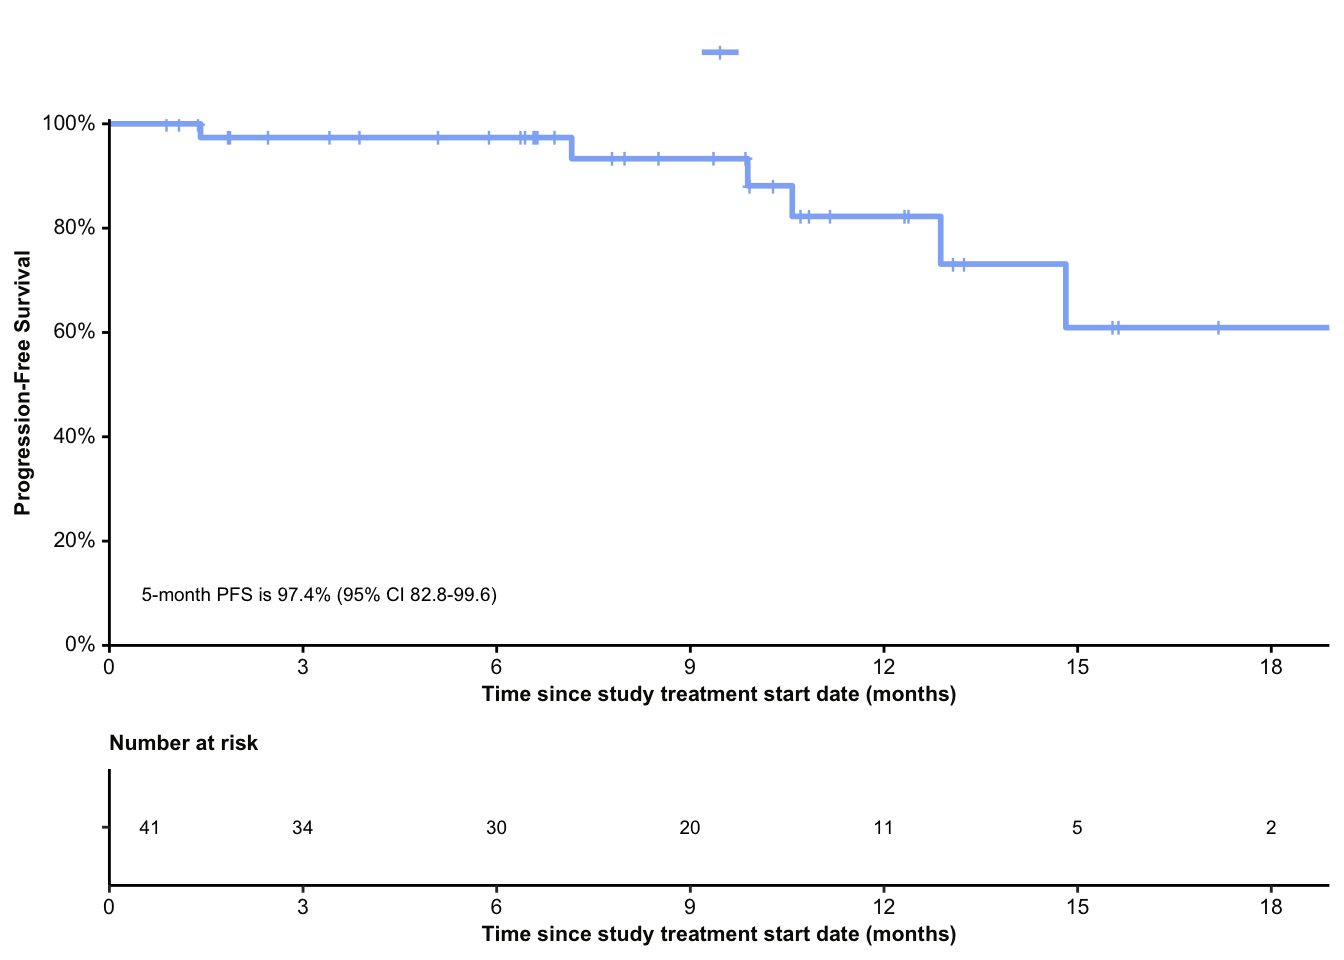
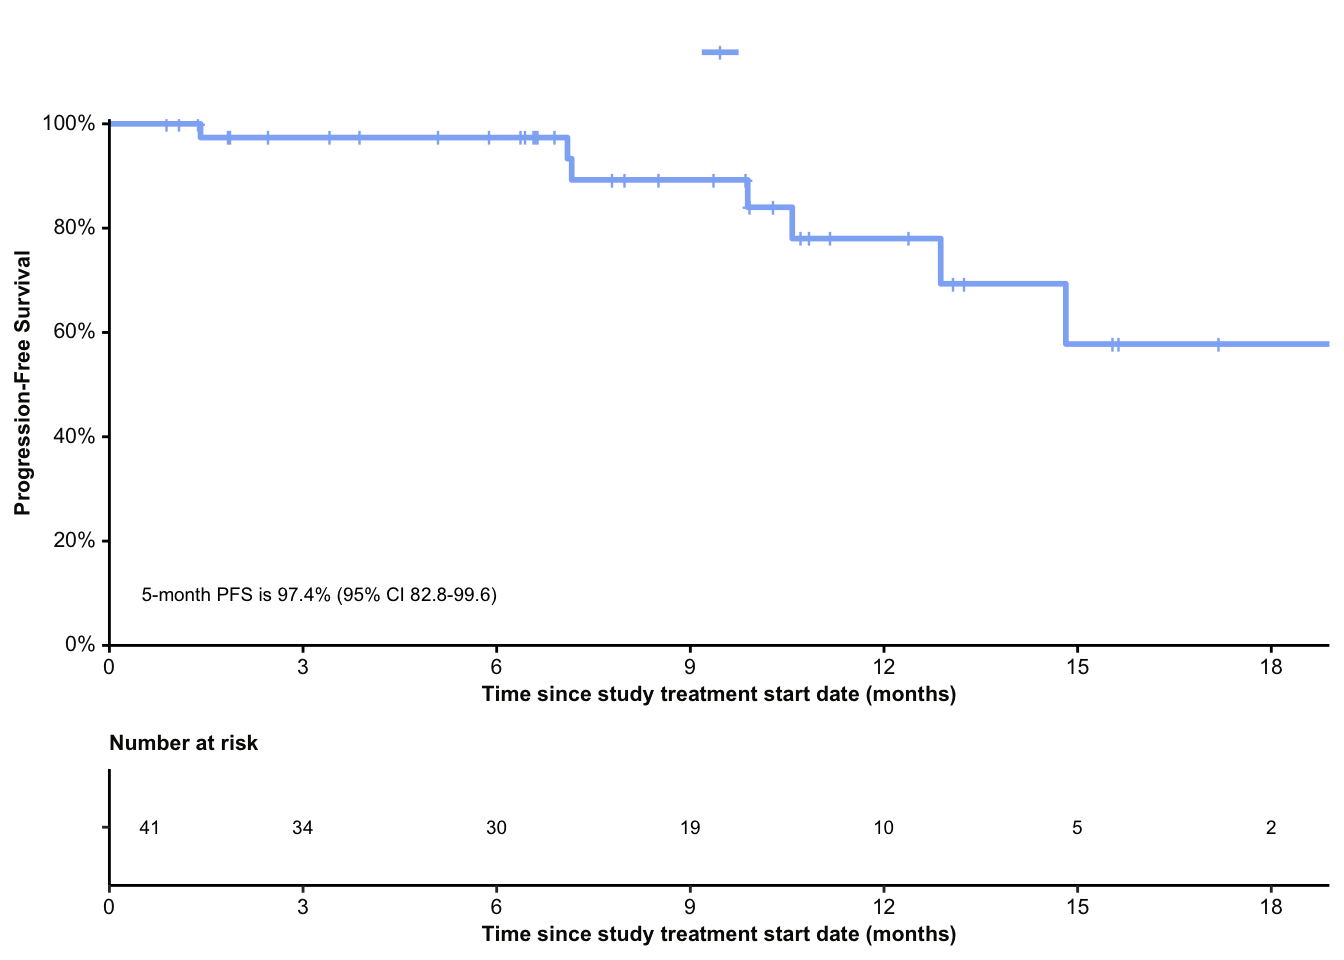
Build site.

Changed region(s): [[0.4062, 0.125, 1.0, 0.375], [0.5, 0.8438, 0.5312, 0.875]]

diff --git a/docs/WP1_preliminary-analysis.html b/docs/WP1_preliminary-analysis.html
@@ -519,15 +519,15 @@ project makes it easier to run your code on other machines.</p>
 <div class="panel panel-default">
 <div class="panel-heading">
 <p class="panel-title">
-<a data-toggle="collapse" data-parent="#workflowr-checks" href="#strongRepositoryversionstrongahrefhttpsgithubcomMedsirScientificPECATItreef8ecc2fd6d47abdee96e6abe5a0d27507f2906d2targetblankf8ecc2fa">
+<a data-toggle="collapse" data-parent="#workflowr-checks" href="#strongRepositoryversionstrongahrefhttpsgithubcomMedsirScientificPECATItreeb1f5f8b6d9f570f1962d10f6ab46ebd6e3d13b93targetblankb1f5f8ba">
 <span class="glyphicon glyphicon-ok text-success"
 aria-hidden="true"></span> <strong>Repository version:</strong>
-<a href="https://github.com/MedsirScientific/PECATI/tree/f8ecc2fd6d47abdee96e6abe5a0d27507f2906d2" target="_blank">f8ecc2f</a>
+<a href="https://github.com/MedsirScientific/PECATI/tree/b1f5f8b6d9f570f1962d10f6ab46ebd6e3d13b93" target="_blank">b1f5f8b</a>
 </a>
 </p>
 </div>
 <div
[2 lines of base64/hex data omitted]
 class="panel-collapse collapse">
 <div class="panel-body">
 <p>
@@ -537,7 +537,7 @@ reproducibility.
 </p>
 <p>
 The results in this page were generated with repository version
-<a href="https://github.com/MedsirScientific/PECATI/tree/f8ecc2fd6d47abdee96e6abe5a0d27507f2906d2" target="_blank">f8ecc2f</a>.
+<a href="https://github.com/MedsirScientific/PECATI/tree/b1f5f8b6d9f570f1962d10f6ab46ebd6e3d13b93" target="_blank">b1f5f8b</a>.
 See the <em>Past versions</em> tab to see a history of the changes made
 to the R Markdown and HTML files.
 </p>
@@ -651,6 +651,40 @@ Message
 </tr>
 </thead>
 <tbody>
+<tr>
+<td>
+Rmd
+</td>
+<td>
+<a href="https://github.com/MedsirScientific/PECATI/blob/b1f5f8b6d9f570f1962d10f6ab46ebd6e3d13b93/analysis/WP1_preliminary-analysis.Rmd" target="_blank">b1f5f8b</a>
+</td>
+<td>
+Daniel Alcalá
+</td>
+<td>
+2024-02-01
+</td>
+<td>
+Add clinical progression as PFS events
+</td>
+</tr>
+<tr>
+<td>
+html
+</td>
+<td>
+<a href="https://rawcdn.githack.com/MedsirScientific/PECATI/d676d2c22bc9568d75853d5f8091d75f1601afbb/docs/WP1_preliminary-analysis.html" target="_blank">d676d2c</a>
+</td>
+<td>
+Daniel Alcalá
+</td>
+<td>
+2024-02-01
+</td>
+<td>
+Build site.
+</td>
+</tr>
 <tr>
 <td>
 Rmd
@@ -2646,7 +2680,7 @@ class="section level2">
 <h4><strong>Table 3. Summary of PFS events:</strong></h4>
 <div data-pagedtable="false">
 <script data-pagedtable-source type="application/json">
-{"columns":[{"label":["time"],"name":[1],"type":["dbl"],"align":["right"]},{"label":["n.risk"],"name":[2],"type":["dbl"],"align":["right"]},{"label":["n.event"],"name":[3],"type":["dbl"],"align":["right"]},{"label":["n.censor"],"name":[4],"type":["dbl"],"align":["right"]},{"label":["estimate"],"name":[5],"type":["dbl"],"align":["right"]},{"label":["std.error"],"name":[6],"type":["dbl"],"align":["right"]},{"label":["conf.high"],"name":[7],"type":["dbl"],"align":["right"]},{"label":["conf.low"],"name":[8],"type":["dbl"],"align":["right"]}],"data":[{"1":"0.89","2":"41","3":"0","4":"1","5":"1.00","6":"0.00","7":"NA","8":"NA"},{"1":"1.08","2":"40","3":"0","4":"1","5":"1.00","6":"0.00","7":"NA","8":"NA"},{"1":"1.38","2":"39","3":"0","4":"1","5":"1.00","6":"0.00","7":"NA","8":"NA"},{"1":"1.41","2":"38","3":"1","4":"0","5":"0.97","6":"0.03","7":"1.00","8":"0.83"},{"1":"1.84","2":"37","3":"0","4":"1","5":"0.97","6":"0.03","7":"1.00","8":"0.83"},{"1":"1.87","2":"36","3":"0","4":"1","5":"0.97","6":"0.03","7":"1.00","8":"0.83"},{"1":"2.46","2":"35","3":"0","4":"1","5":"0.97","6":"0.03","7":"1.00","8":"0.83"},{"1":"3.42","2":"34","3":"0","4":"1","5":"0.97","6":"0.03","7":"1.00","8":"0.83"},{"1":"3.88","2":"33","3":"0","4":"1","5":"0.97","6":"0.03","7":"1.00","8":"0.83"},{"1":"5.09","2":"32","3":"0","4":"1","5":"0.97","6":"0.03","7":"1.00","8":"0.83"},{"1":"5.88","2":"31","3":"0","4":"1","5":"0.97","6":"0.03","7":"1.00","8":"0.83"},{"1":"6.37","2":"30","3":"0","4":"1","5":"0.97","6":"0.03","7":"1.00","8":"0.83"},{"1":"6.44","2":"29","3":"0","4":"1","5":"0.97","6":"0.03","7":"1.00","8":"0.83"},{"1":"6.57","2":"28","3":"0","4":"1","5":"0.97","6":"0.03","7":"1.00","8":"0.83"},{"1":"6.60","2":"27","3":"0","4":"1","5":"0.97","6":"0.03","7":"1.00","8":"0.83"},{"1":"6.64","2":"26","3":"0","4":"1","5":"0.97","6":"0.03","7":"1.00","8":"0.83"},{"1":"6.90","2":"25","3":"0","4":"1","5":"0.97","6":"0.03","7":"1.00","8":"0.83"},{"1":"7.16","2":"24","3":"1","4":"0","5":"0.93","6":"0.05","7":"0.98","8":"0.75"},{"1":"7.79","2":"23","3":"0","4":"1","5":"0.93","6":"0.05","7":"0.98","8":"0.75"},{"1":"7.98","2":"22","3":"0","4":"1","5":"0.93","6":"0.05","7":"0.98","8":"0.75"},{"1":"8.51","2":"21","3":"0","4":"1","5":"0.93","6":"0.05","7":"0.98","8":"0.75"},{"1":"9.36","2":"20","3":"0","4":"1","5":"0.93","6":"0.05","7":"0.98","8":"0.75"},{"1":"9.86","2":"19","3":"0","4":"1","5":"0.93","6":"0.05","7":"0.98","8":"0.75"},{"1":"9.89","2":"18","3":"1","4":"0","5":"0.88","6":"0.08","7":"0.96","8":"0.66"},{"1":"9.92","2":"17","3":"0","4":"1","5":"0.88","6":"0.08","7":"0.96","8":"0.66"},{"1":"10.28","2":"16","3":"0","4":"1","5":"0.88","6":"0.08","7":"0.96","8":"0.66"},{"1":"10.58","2":"15","3":"1","4":"0","5":"0.82","6":"0.10","7":"0.93","8":"0.58"},{"1":"10.71","2":"14","3":"0","4":"1","5":"0.82","6":"0.10","7":"0.93","8":"0.58"},{"1":"10.84","2":"13","3":"0","4":"1","5":"0.82","6":"0.10","7":"0.93","8":"0.58"},{"1":"11.17","2":"12","3":"0","4":"1","5":"0.82","6":"0.10","7":"0.93","8":"0.58"},{"1":"12.32","2":"11","3":"0","4":"1","5":"0.82","6":"0.10","7":"0.93","8":"0.58"},{"1":"12.39","2":"10","3":"0","4":"1","5":"0.82","6":"0.10","7":"0.93","8":"0.58"},{"1":"12.88","2":"9","3":"1","4":"0","5":"0.73","6":"0.16","7":"0.89","8":"0.43"},{"1":"13.08","2":"8","3":"0","4":"1","5":"0.73","6":"0.16","7":"0.89","8":"0.43"},{"1":"13.24","2":"7","3":"0","4":"1","5":"0.73","6":"0.16","7":"0.89","8":"0.43"},{"1":"14.82","2":"6","3":"1","4":"0","5":"0.61","6":"0.24","7":"0.83","8":"0.28"},{"1":"15.54","2":"5","3":"0","4":"1","5":"0.61","6":"0.24","7":"0.83","8":"0.28"},{"1":"15.64","2":"4","3":"0","4":"1","5":"0.61","6":"0.24","7":"0.83","8":"0.28"},{"1":"17.18","2":"3","3":"0","4":"1","5":"0.61","6":"0.24","7":"0.83","8":"0.28"},{"1":"19.35","2":"2","3":"0","4":"1","5":"0.61","6":"0.24","7":"0.83","8":"0.28"},{"1":"20.60","2":"1","3":"0","4":"1","5":"0.61","6":"0.24","7":"0.83","8":"0.28"}],"options":{"columns":{"min":{},"max":[10]},"rows":{"min":[10],"max":[10]},"pages":{}}}
+{"columns":[{"label":["time"],"name":[1],"type":["dbl"],"align":["right"]},{"label":["n.risk"],"name":[2],"type":["dbl"],"align":["right"]},{"label":["n.event"],"name":[3],"type":["dbl"],"align":["right"]},{"label":["n.censor"],"name":[4],"type":["dbl"],"align":["right"]},{"label":["estimate"],"name":[5],"type":["dbl"],"align":["right"]},{"label":["std.error"],"name":[6],"type":["dbl"],"align":["right"]},{"label":["conf.high"],"name":[7],"type":["dbl"],"align":["right"]},{"label":["conf.low"],"name":[8],"type":["dbl"],"align":["right"]}],"data":[{"1":"0.89","2":"41","3":"0","4":"1","5":"1.00","6":"0.00","7":"NA","8":"NA"},{"1":"1.08","2":"40","3":"0","4":"1","5":"1.00","6":"0.00","7":"NA","8":"NA"},{"1":"1.38","2":"39","3":"0","4":"1","5":"1.00","6":"0.00","7":"NA","8":"NA"},{"1":"1.41","2":"38","3":"1","4":"0","5":"0.97","6":"0.03","7":"1.00","8":"0.83"},{"1":"1.84","2":"37","3":"0","4":"1","5":"0.97","6":"0.03","7":"1.00","8":"0.83"},{"1":"1.87","2":"36","3":"0","4":"1","5":"0.97","6":"0.03","7":"1.00","8":"0.83"},{"1":"2.46","2":"35","3":"0","4":"1","5":"0.97","6":"0.03","7":"1.00","8":"0.83"},{"1":"3.42","2":"34","3":"0","4":"1","5":"0.97","6":"0.03","7":"1.00","8":"0.83"},{"1":"3.88","2":"33","3":"0","4":"1","5":"0.97","6":"0.03","7":"1.00","8":"0.83"},{"1":"5.09","2":"32","3":"0","4":"1","5":"0.97","6":"0.03","7":"1.00","8":"0.83"},{"1":"5.88","2":"31","3":"0","4":"1","5":"0.97","6":"0.03","7":"1.00","8":"0.83"},{"1":"6.37","2":"30","3":"0","4":"1","5":"0.97","6":"0.03","7":"1.00","8":"0.83"},{"1":"6.44","2":"29","3":"0","4":"1","5":"0.97","6":"0.03","7":"1.00","8":"0.83"},{"1":"6.57","2":"28","3":"0","4":"1","5":"0.97","6":"0.03","7":"1.00","8":"0.83"},{"1":"6.60","2":"27","3":"0","4":"1","5":"0.97","6":"0.03","7":"1.00","8":"0.83"},{"1":"6.64","2":"26","3":"0","4":"1","5":"0.97","6":"0.03","7":"1.00","8":"0.83"},{"1":"6.90","2":"25","3":"0","4":"1","5":"0.97","6":"0.03","7":"1.00","8":"0.83"},{"1":"7.10","2":"24","3":"1","4":"0","5":"0.93","6":"0.05","7":"0.98","8":"0.75"},{"1":"7.16","2":"23","3":"1","4":"0","5":"0.89","6":"0.07","7":"0.96","8":"0.70"},{"1":"7.79","2":"22","3":"0","4":"1","5":"0.89","6":"0.07","7":"0.96","8":"0.70"},{"1":"7.98","2":"21","3":"0","4":"1","5":"0.89","6":"0.07","7":"0.96","8":"0.70"},{"1":"8.51","2":"20","3":"0","4":"1","5":"0.89","6":"0.07","7":"0.96","8":"0.70"},{"1":"9.36","2":"19","3":"0","4":"1","5":"0.89","6":"0.07","7":"0.96","8":"0.70"},{"1":"9.86","2":"18","3":"0","4":"1","5":"0.89","6":"0.07","7":"0.96","8":"0.70"},{"1":"9.89","2":"17","3":"1","4":"0","5":"0.84","6":"0.09","7":"0.94","8":"0.62"},{"1":"9.92","2":"16","3":"0","4":"1","5":"0.84","6":"0.09","7":"0.94","8":"0.62"},{"1":"10.28","2":"15","3":"0","4":"1","5":"0.84","6":"0.09","7":"0.94","8":"0.62"},{"1":"10.58","2":"14","3":"1","4":"0","5":"0.78","6":"0.12","7":"0.91","8":"0.54"},{"1":"10.71","2":"13","3":"0","4":"1","5":"0.78","6":"0.12","7":"0.91","8":"0.54"},{"1":"10.84","2":"12","3":"0","4":"1","5":"0.78","6":"0.12","7":"0.91","8":"0.54"},{"1":"11.17","2":"11","3":"0","4":"1","5":"0.78","6":"0.12","7":"0.91","8":"0.54"},{"1":"12.39","2":"10","3":"0","4":"1","5":"0.78","6":"0.12","7":"0.91","8":"0.54"},{"1":"12.88","2":"9","3":"1","4":"0","5":"0.69","6":"0.17","7":"0.86","8":"0.41"},{"1":"13.08","2":"8","3":"0","4":"1","5":"0.69","6":"0.17","7":"0.86","8":"0.41"},{"1":"13.24","2":"7","3":"0","4":"1","5":"0.69","6":"0.17","7":"0.86","8":"0.41"},{"1":"14.82","2":"6","3":"1","4":"0","5":"0.58","6":"0.25","7":"0.80","8":"0.27"},{"1":"15.54","2":"5","3":"0","4":"1","5":"0.58","6":"0.25","7":"0.80","8":"0.27"},{"1":"15.64","2":"4","3":"0","4":"1","5":"0.58","6":"0.25","7":"0.80","8":"0.27"},{"1":"17.18","2":"3","3":"0","4":"1","5":"0.58","6":"0.25","7":"0.80","8":"0.27"},{"1":"19.35","2":"2","3":"0","4":"1","5":"0.58","6":"0.25","7":"0.80","8":"0.27"},{"1":"20.60","2":"1","3":"0","4":"1","5":"0.58","6":"0.25","7":"0.80","8":"0.27"}],"options":{"columns":{"min":{},"max":[10]},"rows":{"min":[10],"max":[10]},"pages":{}}}
   </script>
 </div>
 </div>
@@ -3139,6 +3173,17 @@ Date
 <tbody>
 <tr>
 <td>
+<a href="https://github.com/MedsirScientific/PECATI/blob/d676d2c22bc9568d75853d5f8091d75f1601afbb/docs/figure/WP1_preliminary-analysis.Rmd/5mo-pfs-kaplan-meier-plot-1.png" target="_blank">d676d2c</a>
+</td>
+<td>
+Daniel Alcalá
+</td>
+<td>
+2024-02-01
+</td>
+</tr>
+<tr>
+<td>
 <a href="https://github.com/MedsirScientific/PECATI/blob/005bbb41f51cb998128c3c36ad17e4bf2d556d5b/docs/figure/WP1_preliminary-analysis.Rmd/5mo-pfs-kaplan-meier-plot-1.png" target="_blank">005bbb4</a>
 </td>
 <td>
@@ -3170,7 +3215,7 @@ Daniel Alcalá
 <p>Listing of survival data:</p>
 <div data-pagedtable="false">
 <script data-pagedtable-source type="application/json">
-{"columns":[{"label":["Patient"],"name":[1],"type":["chr"],"align":["left"]},{"label":["PFS event (PD or exitus)"],"name":[2],"type":["chr"],"align":["left"]},{"label":["Time to PFS event (months)"],"name":[3],"type":["dbl"],"align":["right"]},{"label":["OS event (exitus)"],"name":[4],"type":["chr"],"align":["left"]},{"label":["Time to OS event (months)"],"name":[5],"type":["dbl"],"align":["right"]}],"data":[{"1":"0102-001","2":"No","3":"13.1","4":"No","5":"13.1"},{"1":"0102-003","2":"Yes","3":"1.4","4":"Yes","5":"1.6"},{"1":"0102-004","2":"No","3":"6.4","4":"No","5":"6.4"},{"1":"0103-001","2":"Yes","3":"9.9","4":"No","5":"11.0"},{"1":"0103-002","2":"No","3":"17.2","4":"No","5":"17.2"},{"1":"0105-001","2":"No","3":"20.6","4":"No","5":"20.6"},{"1":"0105-003","2":"No","3":"15.6","4":"No","5":"15.6"},{"1":"0201-001","2":"No","3":"10.7","4":"No","5":"10.7"},{"1":"0201-002","2":"No","3":"10.8","4":"No","5":"10.8"},{"1":"0201-003","2":"No","3":"9.9","4":"No","5":"9.9"},{"1":"0201-004","2":"No","3":"7.8","4":"No","5":"7.8"},{"1":"0201-005","2":"No","3":"6.9","4":"No","5":"6.9"},{"1":"0202-002","2":"Yes","3":"12.9","4":"Yes","5":"12.9"},{"1":"0202-003","2":"Yes","3":"10.6","4":"Yes","5":"17.0"},{"1":"0202-004","2":"No","3":"12.4","4":"No","5":"12.4"},{"1":"0202-005","2":"No","3":"12.3","4":"No","5":"12.3"},{"1":"0202-007","2":"No","3":"9.9","4":"No","5":"9.9"},{"1":"0202-008","2":"No","3":"1.9","4":"No","5":"1.9"},{"1":"0203-001","2":"No","3":"11.2","4":"No","5":"11.2"},{"1":"0203-002","2":"No","3":"5.1","4":"No","5":"5.1"},{"1":"0203-003","2":"No","3":"1.8","4":"No","5":"1.8"},{"1":"0203-004","2":"No","3":"0.9","4":"No","5":"0.9"},{"1":"0204-001","2":"No","3":"8.0","4":"No","5":"8.0"},{"1":"0204-003","2":"No","3":"2.5","4":"No","5":"2.5"},{"1":"0205-001","2":"No","3":"8.5","4":"No","5":"8.5"},{"1":"0205-002","2":"No","3":"3.4","4":"No","5":"3.4"},{"1":"0206-001","2":"No","3":"6.6","4":"No","5":"6.6"},{"1":"0206-002","2":"No","3":"3.9","4":"No","5":"3.9"},{"1":"0301-001","2":"No","3":"19.4","4":"No","5":"19.4"},{"1":"0301-002","2":"Yes","3":"14.8","4":"Yes","5":"14.8"},{"1":"0301-003","2":"No","3":"15.5","4":"No","5":"15.5"},{"1":"0301-004","2":"No","3":"13.2","4":"No","5":"13.2"},{"1":"0301-005","2":"Yes","3":"7.2","4":"Yes","5":"7.7"},{"1":"0301-006","2":"No","3":"10.3","4":"No","5":"10.3"},{"1":"0301-007","2":"No","3":"9.4","4":"No","5":"9.4"},{"1":"0301-008","2":"No","3":"6.6","4":"No","5":"6.6"},{"1":"0301-009","2":"No","3":"6.6","4":"No","5":"6.6"},{"1":"0301-010","2":"No","3":"6.4","4":"No","5":"6.4"},{"1":"0301-011","2":"No","3":"5.9","4":"No","5":"5.9"},{"1":"0301-012","2":"No","3":"1.4","4":"No","5":"1.4"},{"1":"0301-013","2":"No","3":"1.1","4":"No","5":"1.1"}],"options":{"columns":{"min":{},"max":[10]},"rows":{"min":[10],"max":[10]},"pages":{}}}
+{"columns":[{"label":["Patient"],"name":[1],"type":["chr"],"align":["left"]},{"label":["PFS event (PD or exitus)"],"name":[2],"type":["chr"],"align":["left"]},{"label":["Time to PFS event (months)"],"name":[3],"type":["dbl"],"align":["right"]},{"label":["OS event (exitus)"],"name":[4],"type":["chr"],"align":["left"]},{"label":["Time to OS event (months)"],"name":[5],"type":["dbl"],"align":["right"]}],"data":[{"1":"0102-001","2":"No","3":"13.1","4":"No","5":"13.1"},{"1":"0102-003","2":"Yes","3":"1.4","4":"Yes","5":"1.6"},{"1":"0102-004","2":"No","3":"6.4","4":"No","5":"6.4"},{"1":"0103-001","2":"Yes","3":"9.9","4":"No","5":"11.0"},{"1":"0103-002","2":"No","3":"17.2","4":"No","5":"17.2"},{"1":"0105-001","2":"No","3":"20.6","4":"No","5":"20.6"},{"1":"0105-003","2":"No","3":"15.6","4":"No","5":"15.6"},{"1":"0201-001","2":"No","3":"10.7","4":"No","5":"10.7"},{"1":"0201-002","2":"No","3":"10.8","4":"No","5":"10.8"},{"1":"0201-003","2":"No","3":"9.9","4":"No","5":"9.9"},{"1":"0201-004","2":"No","3":"7.8","4":"No","5":"7.8"},{"1":"0201-005","2":"No","3":"6.9","4":"No","5":"6.9"},{"1":"0202-002","2":"Yes","3":"12.9","4":"Yes","5":"12.9"},{"1":"0202-003","2":"Yes","3":"10.6","4":"Yes","5":"17.0"},{"1":"0202-004","2":"No","3":"12.4","4":"No","5":"12.4"},{"1":"0202-005","2":"Yes","3":"7.1","4":"No","5":"12.3"},{"1":"0202-007","2":"No","3":"9.9","4":"No","5":"9.9"},{"1":"0202-008","2":"No","3":"1.9","4":"No","5":"1.9"},{"1":"0203-001","2":"No","3":"11.2","4":"No","5":"11.2"},{"1":"0203-002","2":"No","3":"5.1","4":"No","5":"5.1"},{"1":"0203-003","2":"No","3":"1.8","4":"No","5":"1.8"},{"1":"0203-004","2":"No","3":"0.9","4":"No","5":"0.9"},{"1":"0204-001","2":"No","3":"8.0","4":"No","5":"8.0"},{"1":"0204-003","2":"No","3":"2.5","4":"No","5":"2.5"},{"1":"0205-001","2":"No","3":"8.5","4":"No","5":"8.5"},{"1":"0205-002","2":"No","3":"3.4","4":"No","5":"3.4"},{"1":"0206-001","2":"No","3":"6.6","4":"No","5":"6.6"},{"1":"0206-002","2":"No","3":"3.9","4":"No","5":"3.9"},{"1":"0301-001","2":"No","3":"19.4","4":"No","5":"19.4"},{"1":"0301-002","2":"Yes","3":"14.8","4":"Yes","5":"14.8"},{"1":"0301-003","2":"No","3":"15.5","4":"No","5":"15.5"},{"1":"0301-004","2":"No","3":"13.2","4":"No","5":"13.2"},{"1":"0301-005","2":"Yes","3":"7.2","4":"Yes","5":"7.7"},{"1":"0301-006","2":"No","3":"10.3","4":"No","5":"10.3"},{"1":"0301-007","2":"No","3":"9.4","4":"No","5":"9.4"},{"1":"0301-008","2":"No","3":"6.6","4":"No","5":"6.6"},{"1":"0301-009","2":"No","3":"6.6","4":"No","5":"6.6"},{"1":"0301-010","2":"No","3":"6.4","4":"No","5":"6.4"},{"1":"0301-011","2":"No","3":"5.9","4":"No","5":"5.9"},{"1":"0301-012","2":"No","3":"1.4","4":"No","5":"1.4"},{"1":"0301-013","2":"No","3":"1.1","4":"No","5":"1.1"}],"options":{"columns":{"min":{},"max":[10]},"rows":{"min":[10],"max":[10]},"pages":{}}}
   </script>
 </div>
 <div id="table-5.-summary-of-os-events" class="section level4">
@@ -4161,7 +4206,7 @@ Daniel Alcalá
 <h4><strong>Table 8. Summary of PFS events:</strong></h4>
 <div data-pagedtable="false">
 <script data-pagedtable-source type="application/json">
-{"columns":[{"label":["time"],"name":[1],"type":["dbl"],"align":["right"]},{"label":["n.risk"],"name":[2],"type":["dbl"],"align":["right"]},{"label":["n.event"],"name":[3],"type":["dbl"],"align":["right"]},{"label":["n.censor"],"name":[4],"type":["dbl"],"align":["right"]},{"label":["estimate"],"name":[5],"type":["dbl"],"align":["right"]},{"label":["std.error"],"name":[6],"type":["dbl"],"align":["right"]},{"label":["conf.high"],"name":[7],"type":["dbl"],"align":["right"]},{"label":["conf.low"],"name":[8],"type":["dbl"],"align":["right"]}],"data":[{"1":"0.89","2":"41","3":"0","4":"1","5":"1.00","6":"0.00","7":"NA","8":"NA"},{"1":"1.08","2":"40","3":"0","4":"1","5":"1.00","6":"0.00","7":"NA","8":"NA"},{"1":"1.38","2":"39","3":"0","4":"1","5":"1.00","6":"0.00","7":"NA","8":"NA"},{"1":"1.41","2":"38","3":"1","4":"0","5":"0.97","6":"0.03","7":"1.00","8":"0.83"},{"1":"1.84","2":"37","3":"0","4":"1","5":"0.97","6":"0.03","7":"1.00","8":"0.83"},{"1":"1.87","2":"36","3":"0","4":"1","5":"0.97","6":"0.03","7":"1.00","8":"0.83"},{"1":"2.46","2":"35","3":"0","4":"1","5":"0.97","6":"0.03","7":"1.00","8":"0.83"},{"1":"3.42","2":"34","3":"0","4":"1","5":"0.97","6":"0.03","7":"1.00","8":"0.83"},{"1":"3.88","2":"33","3":"0","4":"1","5":"0.97","6":"0.03","7":"1.00","8":"0.83"},{"1":"5.09","2":"32","3":"0","4":"1","5":"0.97","6":"0.03","7":"1.00","8":"0.83"},{"1":"5.88","2":"31","3":"0","4":"1","5":"0.97","6":"0.03","7":"1.00","8":"0.83"},{"1":"6.37","2":"30","3":"0","4":"1","5":"0.97","6":"0.03","7":"1.00","8":"0.83"},{"1":"6.44","2":"29","3":"0","4":"1","5":"0.97","6":"0.03","7":"1.00","8":"0.83"},{"1":"6.57","2":"28","3":"0","4":"1","5":"0.97","6":"0.03","7":"1.00","8":"0.83"},{"1":"6.60","2":"27","3":"0","4":"1","5":"0.97","6":"0.03","7":"1.00","8":"0.83"},{"1":"6.64","2":"26","3":"0","4":"1","5":"0.97","6":"0.03","7":"1.00","8":"0.83"},{"1":"6.90","2":"25","3":"0","4":"1","5":"0.97","6":"0.03","7":"1.00","8":"0.83"},{"1":"7.16","2":"24","3":"1","4":"0","5":"0.93","6":"0.05","7":"0.98","8":"0.75"},{"1":"7.79","2":"23","3":"0","4":"1","5":"0.93","6":"0.05","7":"0.98","8":"0.75"},{"1":"7.98","2":"22","3":"0","4":"1","5":"0.93","6":"0.05","7":"0.98","8":"0.75"},{"1":"8.51","2":"21","3":"0","4":"1","5":"0.93","6":"0.05","7":"0.98","8":"0.75"},{"1":"9.36","2":"20","3":"0","4":"1","5":"0.93","6":"0.05","7":"0.98","8":"0.75"},{"1":"9.86","2":"19","3":"0","4":"1","5":"0.93","6":"0.05","7":"0.98","8":"0.75"},{"1":"9.89","2":"18","3":"1","4":"0","5":"0.88","6":"0.08","7":"0.96","8":"0.66"},{"1":"9.92","2":"17","3":"0","4":"1","5":"0.88","6":"0.08","7":"0.96","8":"0.66"},{"1":"10.28","2":"16","3":"0","4":"1","5":"0.88","6":"0.08","7":"0.96","8":"0.66"},{"1":"10.58","2":"15","3":"1","4":"0","5":"0.82","6":"0.10","7":"0.93","8":"0.58"},{"1":"10.71","2":"14","3":"0","4":"1","5":"0.82","6":"0.10","7":"0.93","8":"0.58"},{"1":"10.84","2":"13","3":"0","4":"1","5":"0.82","6":"0.10","7":"0.93","8":"0.58"},{"1":"11.17","2":"12","3":"0","4":"1","5":"0.82","6":"0.10","7":"0.93","8":"0.58"},{"1":"12.32","2":"11","3":"0","4":"1","5":"0.82","6":"0.10","7":"0.93","8":"0.58"},{"1":"12.39","2":"10","3":"0","4":"1","5":"0.82","6":"0.10","7":"0.93","8":"0.58"},{"1":"12.88","2":"9","3":"1","4":"0","5":"0.73","6":"0.16","7":"0.89","8":"0.43"},{"1":"13.08","2":"8","3":"0","4":"1","5":"0.73","6":"0.16","7":"0.89","8":"0.43"},{"1":"13.24","2":"7","3":"0","4":"1","5":"0.73","6":"0.16","7":"0.89","8":"0.43"},{"1":"14.82","2":"6","3":"1","4":"0","5":"0.61","6":"0.24","7":"0.83","8":"0.28"},{"1":"15.54","2":"5","3":"0","4":"1","5":"0.61","6":"0.24","7":"0.83","8":"0.28"},{"1":"15.64","2":"4","3":"0","4":"1","5":"0.61","6":"0.24","7":"0.83","8":"0.28"},{"1":"17.18","2":"3","3":"0","4":"1","5":"0.61","6":"0.24","7":"0.83","8":"0.28"},{"1":"19.35","2":"2","3":"0","4":"1","5":"0.61","6":"0.24","7":"0.83","8":"0.28"},{"1":"20.60","2":"1","3":"0","4":"1","5":"0.61","6":"0.24","7":"0.83","8":"0.28"}],"options":{"columns":{"min":{},"max":[10]},"rows":{"min":[10],"max":[10]},"pages":{}}}
+{"columns":[{"label":["time"],"name":[1],"type":["dbl"],"align":["right"]},{"label":["n.risk"],"name":[2],"type":["dbl"],"align":["right"]},{"label":["n.event"],"name":[3],"type":["dbl"],"align":["right"]},{"label":["n.censor"],"name":[4],"type":["dbl"],"align":["right"]},{"label":["estimate"],"name":[5],"type":["dbl"],"align":["right"]},{"label":["std.error"],"name":[6],"type":["dbl"],"align":["right"]},{"label":["conf.high"],"name":[7],"type":["dbl"],"align":["right"]},{"label":["conf.low"],"name":[8],"type":["dbl"],"align":["right"]}],"data":[{"1":"0.89","2":"41","3":"0","4":"1","5":"1.00","6":"0.00","7":"NA","8":"NA"},{"1":"1.08","2":"40","3":"0","4":"1","5":"1.00","6":"0.00","7":"NA","8":"NA"},{"1":"1.38","2":"39","3":"0","4":"1","5":"1.00","6":"0.00","7":"NA","8":"NA"},{"1":"1.41","2":"38","3":"1","4":"0","5":"0.97","6":"0.03","7":"1.00","8":"0.83"},{"1":"1.84","2":"37","3":"0","4":"1","5":"0.97","6":"0.03","7":"1.00","8":"0.83"},{"1":"1.87","2":"36","3":"0","4":"1","5":"0.97","6":"0.03","7":"1.00","8":"0.83"},{"1":"2.46","2":"35","3":"0","4":"1","5":"0.97","6":"0.03","7":"1.00","8":"0.83"},{"1":"3.42","2":"34","3":"0","4":"1","5":"0.97","6":"0.03","7":"1.00","8":"0.83"},{"1":"3.88","2":"33","3":"0","4":"1","5":"0.97","6":"0.03","7":"1.00","8":"0.83"},{"1":"5.09","2":"32","3":"0","4":"1","5":"0.97","6":"0.03","7":"1.00","8":"0.83"},{"1":"5.88","2":"31","3":"0","4":"1","5":"0.97","6":"0.03","7":"1.00","8":"0.83"},{"1":"6.37","2":"30","3":"0","4":"1","5":"0.97","6":"0.03","7":"1.00","8":"0.83"},{"1":"6.44","2":"29","3":"0","4":"1","5":"0.97","6":"0.03","7":"1.00","8":"0.83"},{"1":"6.57","2":"28","3":"0","4":"1","5":"0.97","6":"0.03","7":"1.00","8":"0.83"},{"1":"6.60","2":"27","3":"0","4":"1","5":"0.97","6":"0.03","7":"1.00","8":"0.83"},{"1":"6.64","2":"26","3":"0","4":"1","5":"0.97","6":"0.03","7":"1.00","8":"0.83"},{"1":"6.90","2":"25","3":"0","4":"1","5":"0.97","6":"0.03","7":"1.00","8":"0.83"},{"1":"7.10","2":"24","3":"1","4":"0","5":"0.93","6":"0.05","7":"0.98","8":"0.75"},{"1":"7.16","2":"23","3":"1","4":"0","5":"0.89","6":"0.07","7":"0.96","8":"0.70"},{"1":"7.79","2":"22","3":"0","4":"1","5":"0.89","6":"0.07","7":"0.96","8":"0.70"},{"1":"7.98","2":"21","3":"0","4":"1","5":"0.89","6":"0.07","7":"0.96","8":"0.70"},{"1":"8.51","2":"20","3":"0","4":"1","5":"0.89","6":"0.07","7":"0.96","8":"0.70"},{"1":"9.36","2":"19","3":"0","4":"1","5":"0.89","6":"0.07","7":"0.96","8":"0.70"},{"1":"9.86","2":"18","3":"0","4":"1","5":"0.89","6":"0.07","7":"0.96","8":"0.70"},{"1":"9.89","2":"17","3":"1","4":"0","5":"0.84","6":"0.09","7":"0.94","8":"0.62"},{"1":"9.92","2":"16","3":"0","4":"1","5":"0.84","6":"0.09","7":"0.94","8":"0.62"},{"1":"10.28","2":"15","3":"0","4":"1","5":"0.84","6":"0.09","7":"0.94","8":"0.62"},{"1":"10.58","2":"14","3":"1","4":"0","5":"0.78","6":"0.12","7":"0.91","8":"0.54"},{"1":"10.71","2":"13","3":"0","4":"1","5":"0.78","6":"0.12","7":"0.91","8":"0.54"},{"1":"10.84","2":"12","3":"0","4":"1","5":"0.78","6":"0.12","7":"0.91","8":"0.54"},{"1":"11.17","2":"11","3":"0","4":"1","5":"0.78","6":"0.12","7":"0.91","8":"0.54"},{"1":"12.39","2":"10","3":"0","4":"1","5":"0.78","6":"0.12","7":"0.91","8":"0.54"},{"1":"12.88","2":"9","3":"1","4":"0","5":"0.69","6":"0.17","7":"0.86","8":"0.41"},{"1":"13.08","2":"8","3":"0","4":"1","5":"0.69","6":"0.17","7":"0.86","8":"0.41"},{"1":"13.24","2":"7","3":"0","4":"1","5":"0.69","6":"0.17","7":"0.86","8":"0.41"},{"1":"14.82","2":"6","3":"1","4":"0","5":"0.58","6":"0.25","7":"0.80","8":"0.27"},{"1":"15.54","2":"5","3":"0","4":"1","5":"0.58","6":"0.25","7":"0.80","8":"0.27"},{"1":"15.64","2":"4","3":"0","4":"1","5":"0.58","6":"0.25","7":"0.80","8":"0.27"},{"1":"17.18","2":"3","3":"0","4":"1","5":"0.58","6":"0.25","7":"0.80","8":"0.27"},{"1":"19.35","2":"2","3":"0","4":"1","5":"0.58","6":"0.25","7":"0.80","8":"0.27"},{"1":"20.60","2":"1","3":"0","4":"1","5":"0.58","6":"0.25","7":"0.80","8":"0.27"}],"options":{"columns":{"min":{},"max":[10]},"rows":{"min":[10],"max":[10]},"pages":{}}}
   </script>
 </div>
 </div>
@@ -5078,7 +5123,7 @@ Daniel Alcalá
   <tbody class="gt_table_body">
     <tr><td headers="label" class="gt_row gt_left">Overall</td>
 <td headers="stat_1" class="gt_row gt_center">97% (83%, 100%)</td>
-<td headers="stat_2" class="gt_row gt_center">82% (58%, 93%)</td></tr>
+<td headers="stat_2" class="gt_row gt_center">78% (54%, 91%)</td></tr>
   </tbody>
   
   
@@ -5113,6 +5158,17 @@ Date
 </tr>
 </thead>
 <tbody>
+<tr>
+<td>
+<a href="https://github.com/MedsirScientific/PECATI/blob/d676d2c22bc9568d75853d5f8091d75f1601afbb/docs/figure/WP1_preliminary-analysis.Rmd/pfs-kaplan-meier-plot-1.png" target="_blank">d676d2c</a>
+</td>
+<td>
+Daniel Alcalá
+</td>
+<td>
+2024-02-01
+</td>
+</tr>
 <tr>
 <td>
 <a href="https://github.com/MedsirScientific/PECATI/blob/005bbb41f51cb998128c3c36ad17e4bf2d556d5b/docs/figure/WP1_preliminary-analysis.Rmd/pfs-kaplan-meier-plot-1.png" target="_blank">005bbb4</a>
